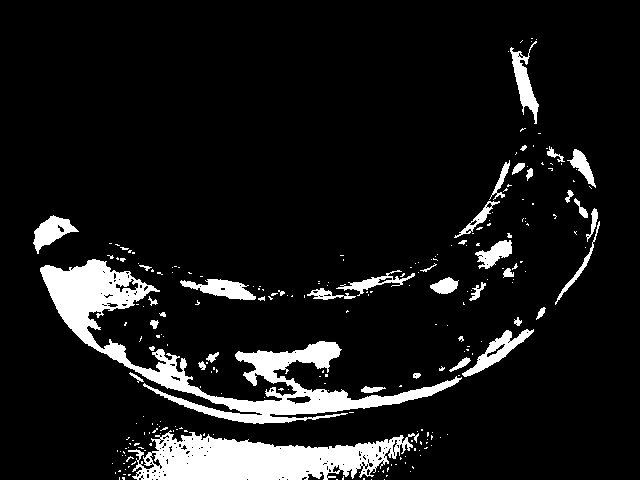
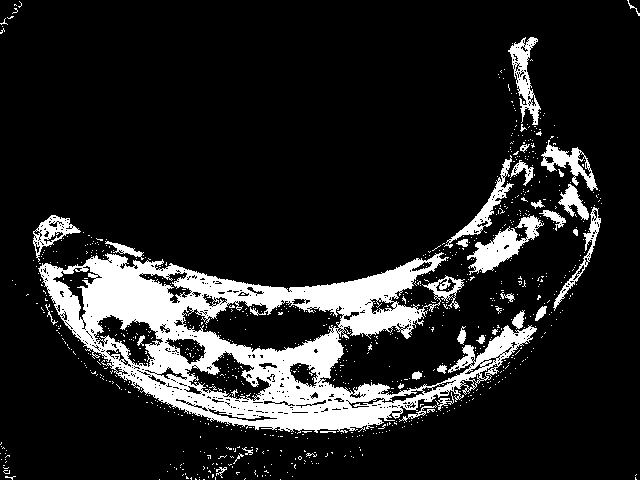
add banana example

diff --git a/Image Segmentation/ImageSegmentationExamples.cpp b/Image Segmentation/ImageSegmentationExamples.cpp
@@ -5,7 +5,7 @@ void ImageSegmentationExamples::banana()
 	Image image("Images/banana1-gr.jpg", "BackgroundPixels/banana1-gr.txt", "ObjectPixels/banana1-gr.txt");
 
 	const int sigma{ 2 };
-	const double lambda{ .1 };
+	const double lambda{ .0725 };
 	const bool eight_edges{ false };
 
 	image.segment_image(sigma, lambda, eight_edges);
